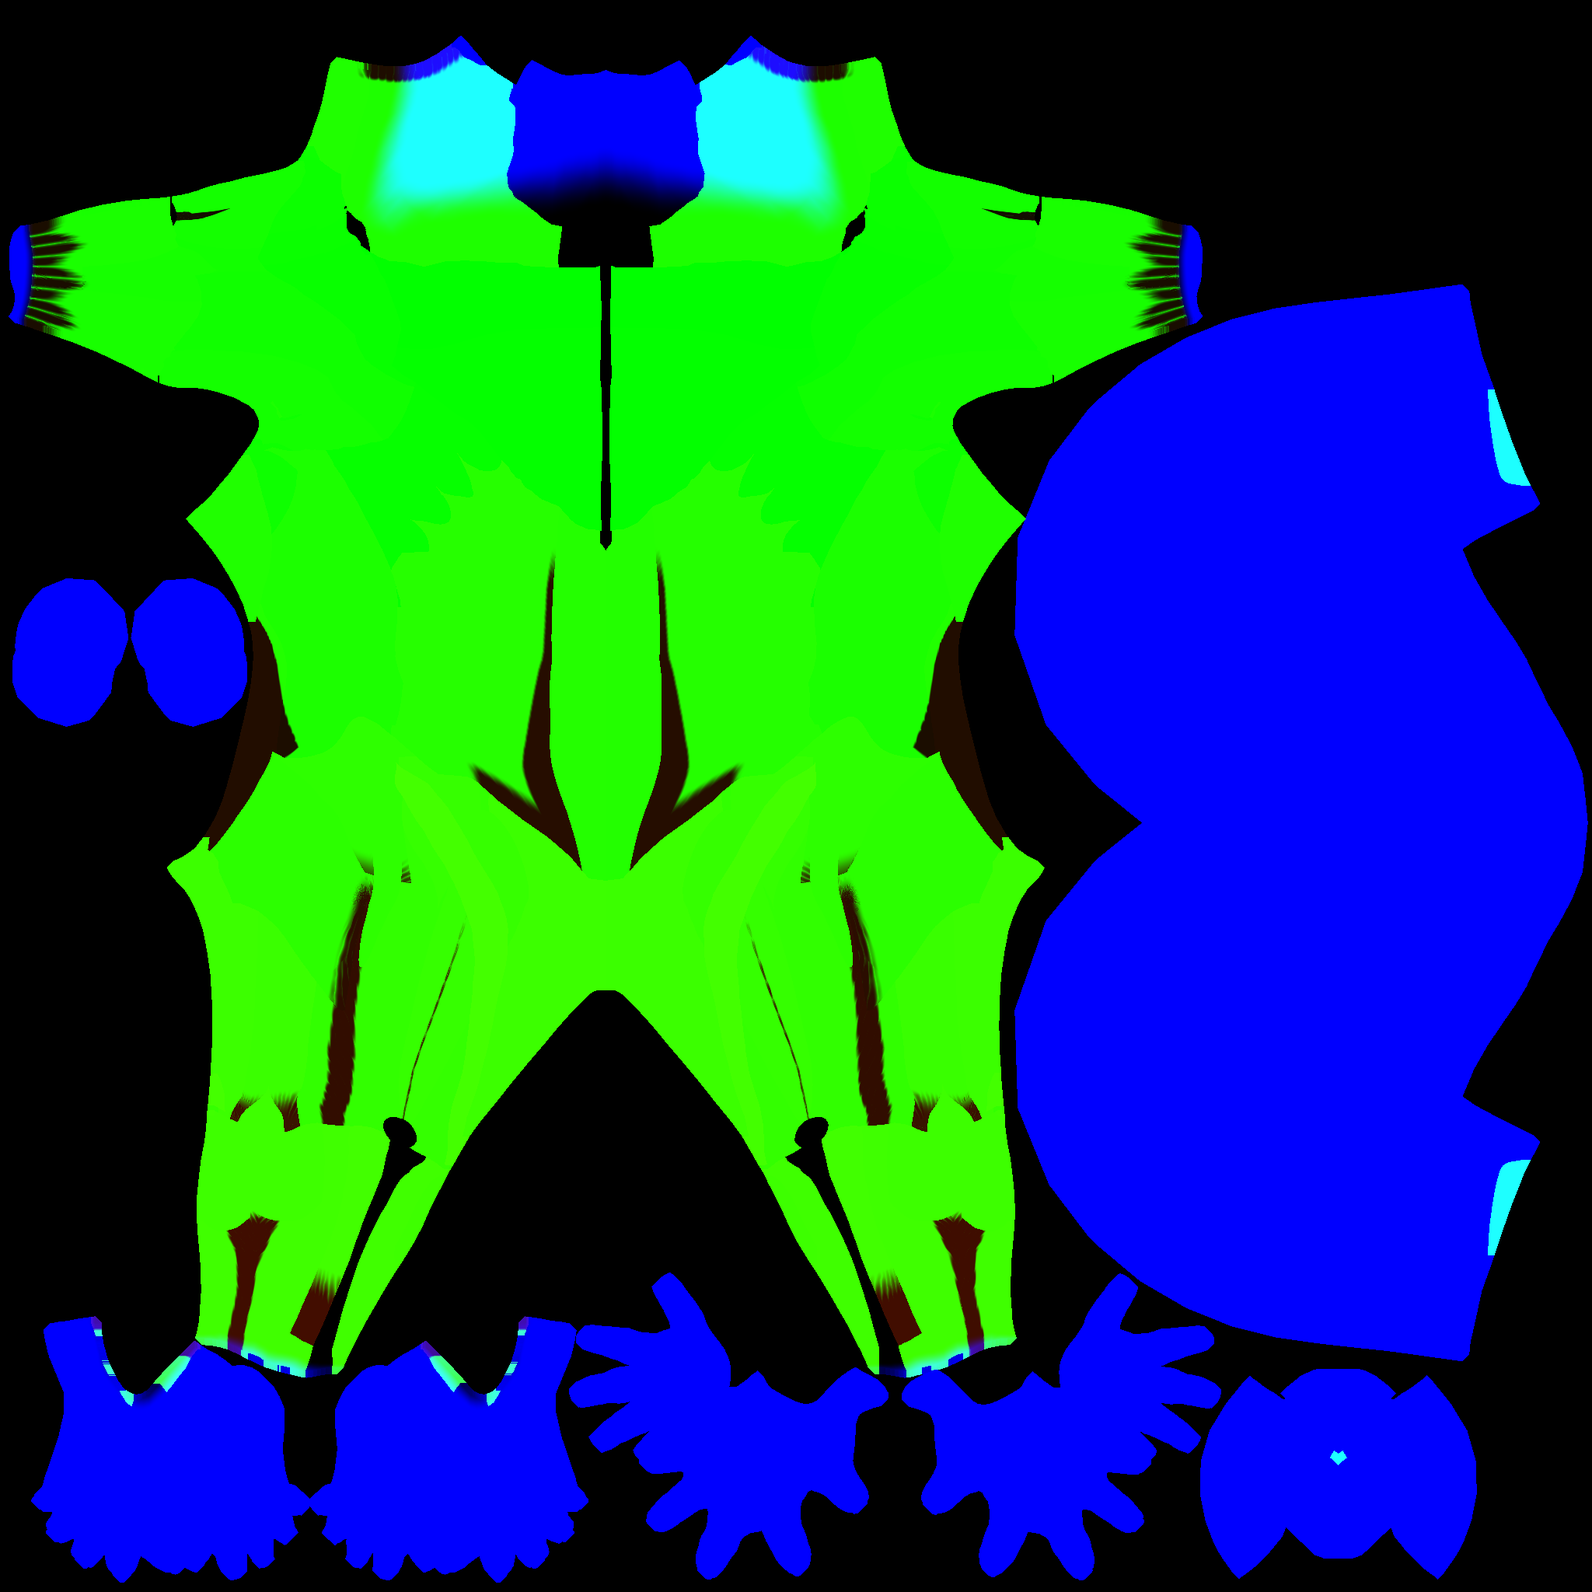
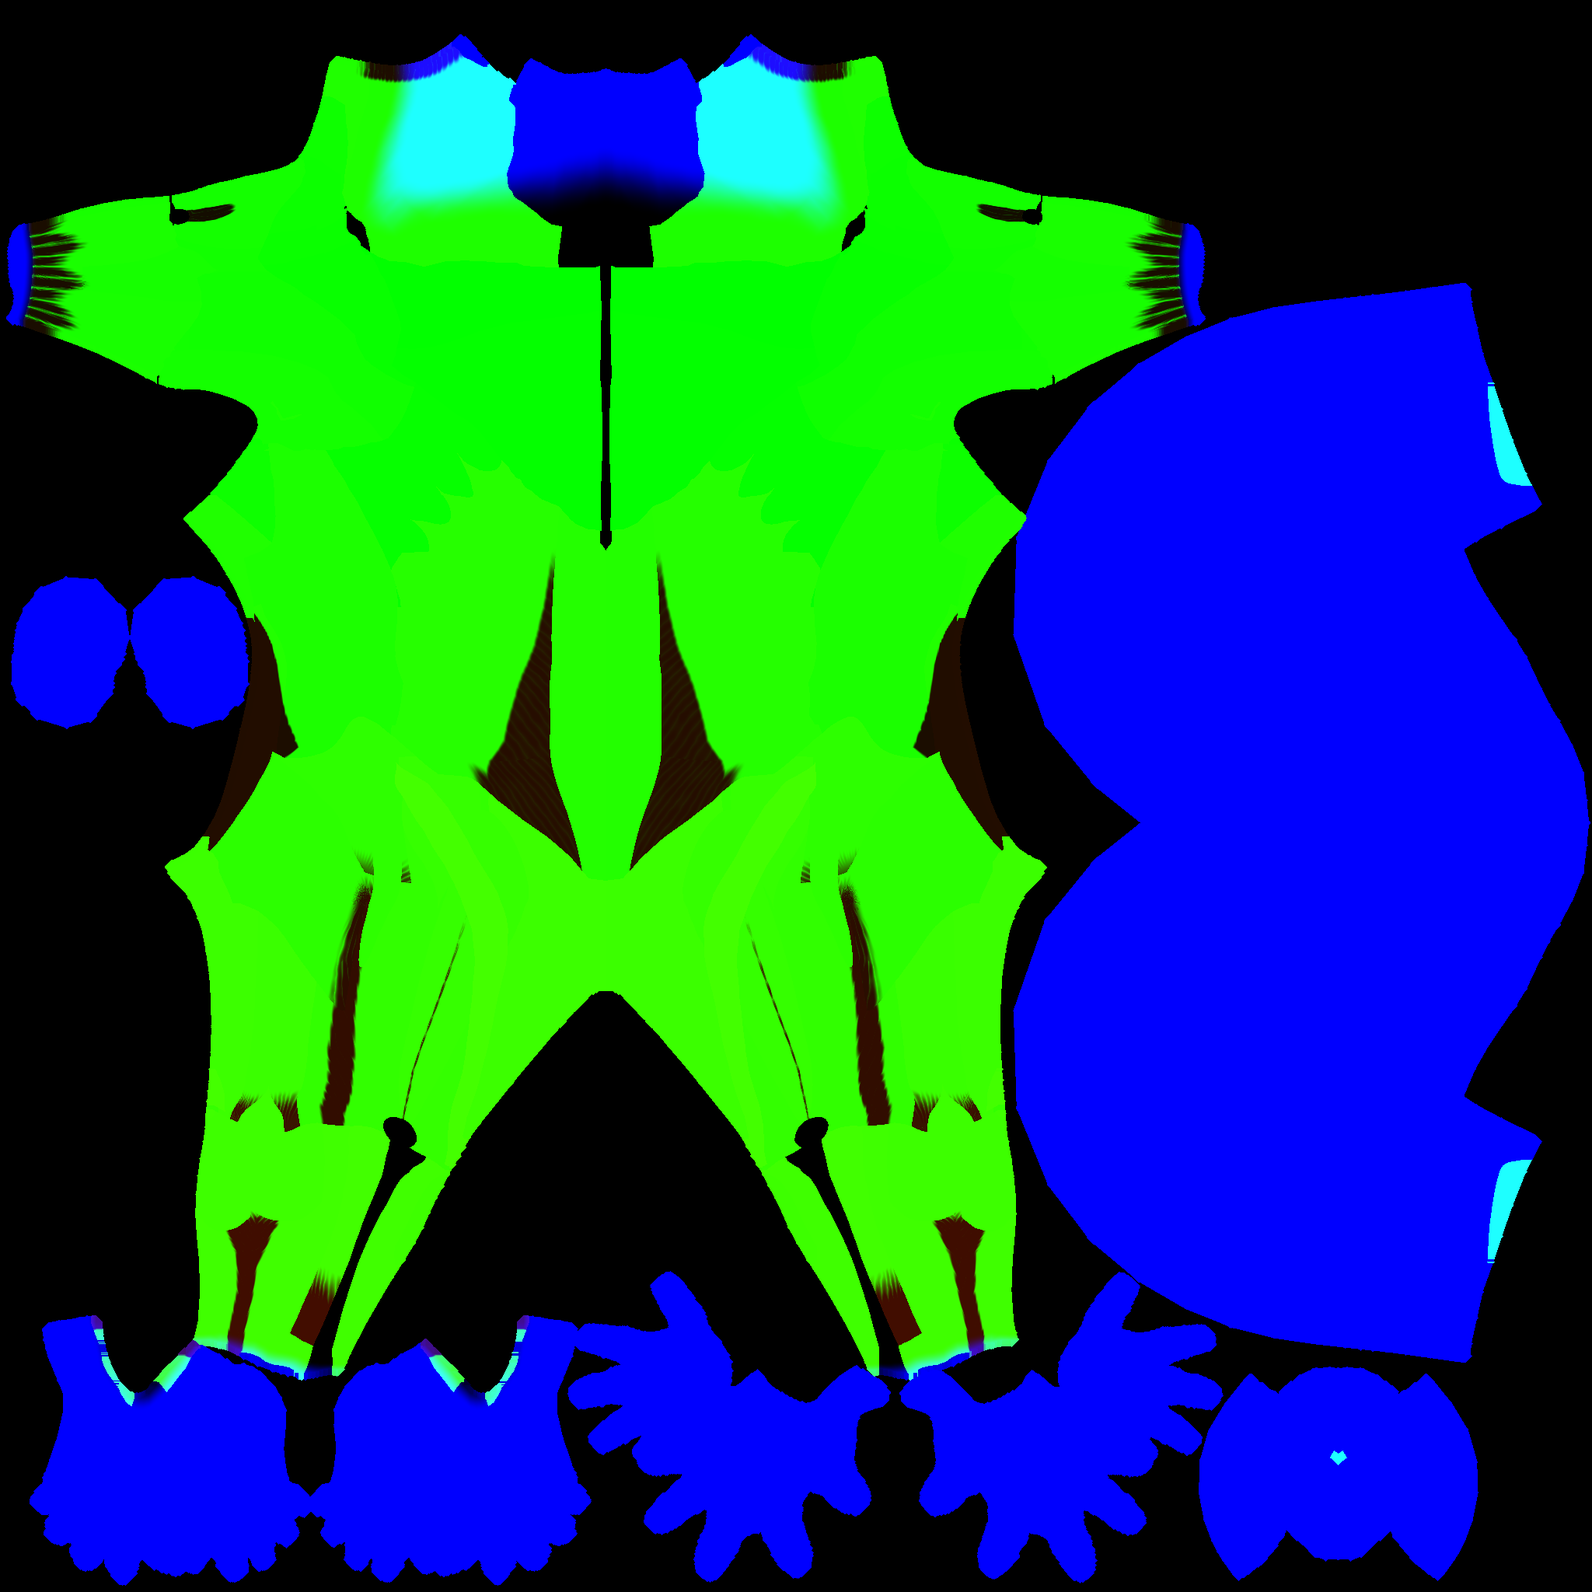
Anatomie Muskel für Muskel: Rücken, Brust, Arm, schräger Bauchmuskel, Version 0.9.5
- Trapez als Drachen: Unterrand vom 12. Brustwirbel zur Wurzel der Schulterblattgräte, dann an der Gräte zur Schulterhöhe
- Untergrätenmuskel und großer Rundmuskel liegen frei, Oberrand des Lat über den unteren Schulterblattwinkel zur Achsel;
  Rautenmuskel im Dreieck am Schulterblattrand; Fasern als Fächer (Trapez zur Gräte, Untergrätenmuskel zum Oberarmkopf)
- Brustmuskel: Furche zwischen Schlüsselbein- und Brustbeinanteil schräg zur Achsel
- Bizeps läuft spitz in eine schmale Endsehne aus, daneben der Oberarmmuskel
- Trizepssehne läuft in den freien Ellbogenhöcker statt an der Gelenkebene gerade abzubrechen
- Aponeurose des äußeren schrägen Bauchmuskels ab der Linie Rippenbogen–Darmbeinstachel
- UV-Nähte: Saum um jede Insel mit fortgesetzter Lage gebacken, Strangbreite aus dem Phasengefälle im Raum

Claude-Session: https://claude.ai/code/session_01LHRCLqy4qHW6NHZ8ZRBzk7

diff --git a/tools/anatomie-kern.ts b/tools/anatomie-kern.ts
@@ -83,6 +83,33 @@ export function backe(g: 'm' | 'w', N = 2048): Ergebnis {
       dreieck[i] = t; b0[i] = w0; b1[i] = w1;
     }
   }
+  // Saum: Texel bis 1,5 Texel außerhalb der UV-Inseln bekommen die über die Kante fortgesetzte Lage ihres nächsten
+  // Dreiecks. So liest die bilineare Filterung an einer UV-Naht auf beiden Seiten Werte von echten Nachbarpunkten
+  // statt kopierter Randtexel, und die Fasern laufen ohne Versatz über die Naht.
+  {
+    const saumAbstand = new Float32Array(NN2).fill(Infinity);
+    for (let t = 0; t < T.length / 3; t++) {
+      const a = T[3 * t], b = T[3 * t + 1], c = T[3 * t + 2];
+      const ax = UV[2 * a] * N, ay = (1 - UV[2 * a + 1]) * N, bx = UV[2 * b] * N, by = (1 - UV[2 * b + 1]) * N, cx = UV[2 * c] * N, cy = (1 - UV[2 * c + 1]) * N;
+      const flaeche = (bx - ax) * (cy - ay) - (cx - ax) * (by - ay);
+      if (Math.abs(flaeche) < 1e-9) continue;
+      // Höhe über jeder Kante in Texeln (Gewicht −1 entspricht so vielen Texeln außerhalb)
+      const hA = Math.abs(flaeche) / Math.hypot(cx - bx, cy - by), hB = Math.abs(flaeche) / Math.hypot(ax - cx, ay - cy), hC = Math.abs(flaeche) / Math.hypot(bx - ax, by - ay);
+      const x0 = Math.max(0, Math.floor(Math.min(ax, bx, cx) - 2)), x1 = Math.min(N - 1, Math.ceil(Math.max(ax, bx, cx) + 2));
+      const y0 = Math.max(0, Math.floor(Math.min(ay, by, cy) - 2)), y1 = Math.min(N - 1, Math.ceil(Math.max(ay, by, cy) + 2));
+      for (let py = y0; py <= y1; py++) for (let px = x0; px <= x1; px++) {
+        const i = py * N + px;
+        if (dreieck[i] >= 0 && saumAbstand[i] === Infinity) continue;   // im Inneren einer Insel
+        const qx = px + 0.5, qy = py + 0.5;
+        const w0 = ((bx - qx) * (cy - qy) - (cx - qx) * (by - qy)) / flaeche;
+        const w1 = ((cx - qx) * (ay - qy) - (ax - qx) * (cy - qy)) / flaeche;
+        const w2 = 1 - w0 - w1;
+        const aussen = Math.max(-w0 * hA, -w1 * hB, -w2 * hC, 0);
+        if (aussen > 1.5 || aussen >= saumAbstand[i]) continue;
+        saumAbstand[i] = aussen; dreieck[i] = t; b0[i] = w0; b1[i] = w1;
+      }
+    }
+  }
 
   // ---------- 2. Je Texel: Position, Normale, Einheit, Unterteilung, Sehne, Faser ----------
   const J = (n: string): V3 => G[n];
@@ -158,6 +185,16 @@ export function backe(g: 'm' | 'w', N = 2048): Ergebnis {
     return { phi, X, Y, sl, tq, q, saege: tq > grenze && sl > -0.2 * ZACKE && sl < SL + 0.2 * ZACKE };
   };
   const SEITE = new Set(['serratus', 'bauch_s', 'lat', 'brust_u', 'brust_o']);
+  // Schulterblatt (Rumpfhöhe 58 cm, Schultergelenk 19 cm neben der Mitte): unterer Winkel bei u 0,4 / v 0,585 (7. Brust-
+  // wirbel), Gräte von der Wurzel am Innenrand (u 0,36 / v 0,8) nach außen zur Schulterhöhe ansteigend, Innenrand
+  // fast senkrecht. Oberrand des Lat = Unterrand des großen Rundmuskels: über den unteren Winkel, dann schräg zur Achsel.
+  const rotLage = (u: number) => Math.min(1, Math.max(0, (u - 0.4) / 0.6));
+  const latOben = (u: number) => 0.585 + 0.135 * rotLage(u);
+  const graete = (u: number) => 0.8 + 0.07 * Math.min(1, Math.max(0, (u - 0.36) / 0.6));
+  const innenRand = (v: number) => 0.33 + 0.07 * Math.min(1, Math.max(0, (0.75 - v) / 0.165));
+  // Unterrand des Trapez: vom 12. Brustwirbel gerade zur Wurzel der Gräte, dann an der Gräte entlang zur Schulterhöhe
+  const trapUnten = (u: number) => u < 0.36 ? 0.42 + 0.38 * u / 0.36 : graete(u);
+  const imRundmuskel = (u: number, v: number) => u > 0.42 && v < latOben(u) + 0.055;
   // −1 = nicht zuständig (vorn am Sixpack, hinten am Rücken, Achsel und Becken)
   function seitenEinheit(p: V3, v: number, s: 'L' | 'R'): number {
     if (v < 0.18 || v > 0.75) return -1;
@@ -214,7 +251,7 @@ export function backe(g: 'm' | 'w', N = 2048): Ergebnis {
     // Brust vorn: Brustbein frei, Unterrand vom Schwertfortsatz bogenförmig zur Achsel
     if (nz > -0.05 && BRUSTRAUM.has(id) && u < 1.02 && v > 0.45 && v < 0.93 && !(id === 'delt_v' && u > 0.9)) {
       const unten = 0.53 + 0.22 * Math.pow(Math.min(1, u), 1.6), oben = 0.865 + 0.03 * u;
-      if (u > 0.022 && v > unten && v < oben) return ix(v > 0.785 - 0.05 * u ? 'brust_o' : 'brust_u', s);
+      if (u > 0.022 && v > unten && v < oben) return ix(v > 0.815 - 0.085 * u ? 'brust_o' : 'brust_u', s);   // Furche vom Brustbein schräg zur Achsel
       if (id === 'brust_o' || id === 'brust_u') {
         if (v >= oben) return u > 0.18 ? ix('trapez_o', s) : 0;
         if (u <= 0.022) return 0;
@@ -234,15 +271,22 @@ export function backe(g: 'm' | 'w', N = 2048): Ergebnis {
       const se = seitenEinheit(p, v, s);
       if (se >= 0) return se;
     }
-    // Rücken: Trapez als Raute bis zum 12. Brustwirbel, darunter Lat, auf dem Schulterblatt die Rotatoren
+    // Rücken: Trapez als Drachen bis zum 12. Brustwirbel, darunter Lat, auf dem Schulterblatt die Rotatoren
     if (nz < -0.1 && RUECKEN.has(id) && !(id === 'delt_h' && u > 0.85) && u < 1.1 && v > 0.04 && v < 1.06) {
-      const trapBreite = v < 0.42 ? -1 : v < 0.82 ? (v - 0.42) / 0.4 * 0.95 : 0.95 - Math.max(0, v - 0.88) / 0.18 * 0.78;
-      if (u <= trapBreite + 0.01) return ix(v > 0.86 ? 'trapez_o' : 'trapez_m', s);
-      if (u > 0.42 && u < 0.98 && v > 0.6 && v < 0.82) return ix('rotatoren', s);
+      const trapAussen = v < 0.88 ? 0.95 : 0.95 - (v - 0.88) / 0.18 * 0.78;
+      if (v >= trapUnten(u) && u <= trapAussen + 0.01) return ix(v > 0.86 ? 'trapez_o' : 'trapez_m', s);
       if (u < 0.27 - 0.15 * glatt(0.3, 0.44, v) && v < 0.46) return ix('strecker', s);   // Rückenstrecker, oben spitz unter dem Trapez
-      const latOben = 0.6 + 0.14 * Math.min(1, u);
-      if (v < latOben) return ix('lat', s);
-      if (id === 'lat' || id === 'trapez_m' || id === 'rotatoren') return u < 0.3 ? ix('strecker', s) : ix('lat', s);
+      if (v < latOben(u)) return ix('lat', s);
+      // zwischen Trapez, Lat und Deltamuskel frei: Untergrätenmuskel und Rundmuskeln, innen am Schulterblattrand im
+      // Dreieck unter dem Trapez der große Rautenmuskel
+      if (v < graete(u) + 0.01) return ix(u > innenRand(v) ? 'rotatoren' : 'trapez_m', s);
+      if (id === 'lat' || id === 'rotatoren') return u < 0.3 ? ix('strecker', s) : ix('lat', s);
+    }
+    // Ellbogenhöcker (Olecranon) frei unter der Haut: die Trizepssehne läuft in ihn ein, statt an der Gelenkebene
+    // gerade abzubrechen
+    if (OBERARM.has(id) || UNTERARM.has(id)) {
+      const { t, w, radius } = imGlied(oberarm, p);
+      if (radius < 0.08 && (((t - 1.0) * oberarm.laenge) / 0.019) ** 2 + ((Math.PI - Math.abs(w)) * radius / 0.014) ** 2 < 1) return 0;
     }
     // Oberarm: Deltamuskel läuft als V zum Ansatz außen am Oberarm aus; darunter Bizeps vorn, Oberarmmuskel außen
     // unten, Trizeps hinten
@@ -253,11 +297,13 @@ export function backe(g: 'm' | 'w', N = 2048): Ergebnis {
       if (t > 0.08 && t < 1.0 && !jenseits && (id !== '' || radius < 0.08)) {   // auch Ringe ohne Maskenabdeckung
         const dw = Math.abs(Math.atan2(Math.sin(w - 1.4), Math.cos(w - 1.4)));
         if (t < 0.47 - 0.36 * Math.min(1, dw / 2.2) ** 1.2) return ix(w > -1.6 && w < 1.15 ? 'delt_v' : w >= 1.15 && w < 2.1 ? 'delt_s' : 'delt_h', s);
-        if (Math.abs(w) < 0.95 * Math.sin(Math.PI * Math.min(1, Math.max(0, (t - 0.12) / 0.86))) ** 0.4) return ix('bizeps', s);
+        // Bizeps läuft unten spitz aus (schmale Endsehne), daneben liegt der Oberarmmuskel frei
+        const spitz = glatt(0.78, 0.93, t);
+        if (Math.abs(w) < 0.95 * Math.sin(Math.PI * Math.min(1, Math.max(0, (t - 0.12) / 0.86))) ** 0.4 * (1 - 0.65 * spitz)) return ix('bizeps', s);
         if (t > 0.7 && Math.abs(w - 0.95) < 0.5 * glatt(0.7, 0.88, t)) return ix('brachiorad', s);   // Ursprung am Oberarm
         if (w > 0 && w < 1.75 && t > 0.42) return ix('brachialis', s);
         if (Math.abs(w) >= 1.2) return ix('trizeps', s);
-        return ix(w > 0 ? 'brachialis' : 'bizeps', s);
+        return ix(w > 0 || spitz > 0.3 ? 'brachialis' : 'bizeps', s);
       }
     }
     // Unterarm: Oberarmspeichenmuskel daumenseitig vorn, Beuger innen, Strecker außen/hinten
@@ -316,14 +362,18 @@ export function backe(g: 'm' | 'w', N = 2048): Ergebnis {
       for (const h of [0.2, 0.32, 0.43]) if (v + welle / hoeheRumpf > h) k++;
     } else if (id === 'serratus') {
       k = 1 + ((Math.floor(seitenLage(p, v).q) % 8) + 8) % 8;   // ein Finger je Rippe
+    } else if (id === 'rotatoren') {
+      k = imRundmuskel(u, v) ? 1 : 0;                         // großer Rundmuskel als Strang an der Unterkante
     } else if (id === 'bizeps') {
       const { t: tt, w } = imGlied(oberarm, p);
       k = w > 0.05 + 0.7 * glatt(0.55, 0.85, tt) ? 1 : 2;     // kurzer und langer Kopf; die Trennung läuft unten seitlich aus
+      s = 0.8 * glatt(0.82, 0.9, tt) * (1 - glatt(0.12, 0.22, Math.abs(w - 0.05)));   // schmale Endsehne zur Ellenbeuge
     } else if (id === 'trizeps') {
       const { t: tt, w } = imGlied(oberarm, p), hinten = Math.PI - Math.abs(w);
       k = w > 0 && w < 2.45 ? 1 : 2;                          // seitlicher und langer Kopf
-      const halb = 0.24 * (tt - 0.66) / 0.32;
-      s = 0.78 * (1 - glatt(halb - 0.03, halb + 0.03, hinten)) * glatt(0.62, 0.68, tt);   // Trizepssehne, nach unten breiter
+      // Sehnenplatte im unteren Oberarm: oben spitz, dann breit bis in den Ellbogenhöcker (Hufeisen der Köpfe drumherum)
+      const halb = 0.1 + 0.2 * Math.max(0, Math.sin(Math.PI * Math.min(1, Math.max(0, (tt - 0.6) / 0.6)))) ** 0.8;
+      s = 0.78 * (1 - glatt(halb - 0.03, halb + 0.03, hinten)) * glatt(0.6, 0.68, tt);
     } else if (id === 'gastro') {
       const { t: tt, w } = imGlied(unterschenkel, p);
       k = w > 0 ? 1 : 2;                                        // äußerer und innerer Kopf
@@ -349,10 +399,12 @@ export function backe(g: 'm' | 'w', N = 2048): Ergebnis {
       s = id === 'strecker' && v < 0.14 ? 0.88 : 0.88 * (1 - glatt(breite - 0.015, breite + 0.015, u)) * glatt(0.05, 0.3, -nz);
     } else if (id === 'bauch_s' && nz > -0.2) {
       // Aponeurose des äußeren schrägen Bauchmuskels: schmal neben dem Sixpack, nach unten breiter, Saum am Leistenband
-      const rand = uRect(v) + 0.03 + 0.1 * glatt(0.38, 0.05, v);
+      // Muskel-Sehnen-Grenze: am Rippenbogen dicht am Sixpack, auf Nabelhöhe in der Medioklavikularlinie, unten zum
+      // vorderen Darmbeinstachel
+      const rand = uRect(v) + 0.03 + 0.2 * glatt(0.45, 0.08, v) + 0.1 * glatt(0.16, 0.04, v);   // unten zum Darmbeinstachel
       const neben = 1 - glatt(rand - 0.015, rand + 0.015, u);
       const leiste = (1 - glatt(0.02, 0.06, v - vLeiste(u))) * (1 - glatt(0.58, 0.66, u));
-      s = 0.85 * Math.max(neben, leiste) * (1 - glatt(0.42, 0.52, v));
+      s = 0.75 * Math.max(neben, leiste) * (1 - glatt(0.42, 0.52, v));
     } else if (id === 'glut_max') {
       const { beta } = beckenLage(p);
       s = 0.8 * (1 - glatt(1.7, 2.1, beta)) * (1 - glatt(-0.2, -0.1, v));   // außen unten in den Tractus iliotibialis
@@ -361,11 +413,22 @@ export function backe(g: 'm' | 'w', N = 2048): Ergebnis {
       if (imTFL(w, v)) k = 1;                                    // Spanner der Oberschenkelbinde als eigener Bauch
       else s = 0.6 * (1 - glatt(-0.13, -0.05, v));              // Ansatzsehne am großen Rollhügel
     } else if (id === 'trapez_o' || id === 'trapez_m') {
+      if (id === 'trapez_m' && nz < 0 && v < trapUnten(u)) k = 1;   // Rautenmuskel unter dem Trapezrand
       s = 0.8 * (1 - glatt(0.05, 0.12, u)) * glatt(0.8, 0.88, v) * glatt(0.1, 0.4, -nz);   // Sehnenspiegel am Nacken
     }
     teil[i] = e * 16 + k;
     sehne[i] = e === 0 ? 1 : s;
     if (e) phase[i] = faser(id, p);
+    if (id === 'rotatoren') {
+      // Untergrätenmuskel: Fächer zum Oberarmkopf; großer Rundmuskel: Strang parallel zum Lat-Rand
+      if (k === 1) { const steil = 0.135 * hoeheRumpf / (0.6 * W), l = Math.hypot(1, steil); phase[i] = (-steil * p[0] + p[1]) / l * 190; }
+      else phase[i] = Math.atan2(p[1] - (yB + 0.8 * hoeheRumpf), 1.05 * W - p[0]) * 0.09 * 190;
+    } else if (id === 'trapez_m' && nz < 0) {
+      // Trapez Mitte und aufsteigender Teil: Fächer zur Gräte (unten schräg aufsteigend, oben quer);
+      // Rautenmuskel: von der Wirbelsäule schräg nach außen unten zum Schulterblattrand
+      if (k === 1) phase[i] = (0.6 * p[0] + p[1]) / Math.hypot(1, 0.6) * 190;
+      else phase[i] = Math.atan2(p[1] - (yB + 0.83 * hoeheRumpf), 0.6 * W - p[0]) * 0.12 * 190;
+    }
     if (id === 'serratus' || (id === 'bauch_s' && v > 0.12)) {
       const L = seitenLage(p, v);
       phase[i] = id === 'serratus' ? L.sl * 190 : (L.X * 0.77 - L.Y * 0.64) * 190;
@@ -555,6 +618,18 @@ export function backe(g: 'm' | 'w', N = 2048): Ergebnis {
   const SEHNE: V3 = [234, 227, 224], KNOCHEN: V3 = [212, 196, 176], FASZIE: V3 = [238, 218, 210];
   const lin = (c: number) => { const x = c / 255; return x <= 0.04045 ? x / 12.92 : ((x + 0.055) / 1.055) ** 2.4; };
   let lumSumme = 0, lumAnzahl = 0;
+  // mittlere Texelgröße der Muskelflächen im Raum (Median der Nachbarabstände)
+  const TEXEL = (() => {
+    const ds: number[] = [];
+    for (let i = 0; i + 1 < NN2; i += 7) {
+      if (dreieck[i] < 0 || dreieck[i + 1] < 0 || !einheit[i]) continue;
+      const d = Math.hypot(pos[3 * i + 3] - pos[3 * i], pos[3 * i + 4] - pos[3 * i + 1], pos[3 * i + 5] - pos[3 * i + 2]);
+      if (d < 0.006) ds.push(d);
+    }
+    ds.sort((a, b) => a - b);
+    return ds[Math.floor(ds.length / 2)];
+  })();
+  console.log(`${g}: Texel im Mittel ${(TEXEL * 1000).toFixed(2)} mm`);
   for (let py = 0; py < N; py++) for (let px = 0; px < N; px++) {
     const i = py * N + px;
     if (dreieck[i] < 0) continue;
@@ -569,11 +644,17 @@ export function backe(g: 'm' | 'w', N = 2048): Ergebnis {
     let bund = 0.5, naht = 0, strahl = 0, zufall = 0;
     if (e) {
       const ph = phase[i];
-      // Phasenänderung je Texel in beiden Richtungen: wo die Textur für feine Stränge zu grob ist, doppelt so breite
-      // Stränge (zweite Stufe) statt Ausblenden
-      const dx = px + 1 < N && dreieck[i + 1] >= 0 && einheit[i + 1] === e ? Math.abs(phase[i + 1] - ph) : 0;
-      const dy = py + 1 < N && dreieck[i + N] >= 0 && einheit[i + N] === e ? Math.abs(phase[i + N] - ph) : 0;
-      const nb = Math.max(dx < 0.5 ? dx : 0, dy < 0.5 ? dy : 0);
+      // Phasengefälle je Meter (3D), umgerechnet auf ein mittleres Texel: wo die Textur für feine Stränge zu grob ist,
+      // doppelt so breite Stränge (zweite Stufe) statt Ausblenden. Im Raum gemessen, damit beide Seiten einer UV-Naht
+      // (andere Lage und Dichte der Insel) dieselbe Strangbreite wählen.
+      const gefaelle = (j: number) => {
+        if (j < 0 || dreieck[j] < 0 || einheit[j] !== e) return -1;
+        const dp = Math.abs(phase[j] - ph), d3 = Math.hypot(pos[3 * j] - x, pos[3 * j + 1] - y, pos[3 * j + 2] - z);
+        return dp < 0.5 && d3 > 1e-5 && d3 < 0.006 ? dp / d3 : -1;
+      };
+      const gRichtung = (a: number, b: number) => { const ga = gefaelle(a); return ga >= 0 ? ga : Math.max(0, gefaelle(b)); };
+      const gx = gRichtung(px + 1 < N ? i + 1 : -1, px > 0 ? i - 1 : -1), gy = gRichtung(py + 1 < N ? i + N : -1, py > 0 ? i - N : -1);
+      const nb = 0.9 * TEXEL * Math.hypot(gx, gy);
       const grob = glatt(0.13, 0.2, 1.32 * nb), aa = 1 - glatt(0.15, 0.24, 0.66 * nb);
       const verzug = 0.55 * (rauschen(x * 30, y * 30, z * 30) - 0.5) + 0.18 * (rauschen(x * 140, y * 140, z * 140) - 0.5);
       const strang = (f: number) => {

diff --git a/index.html b/index.html
@@ -17,7 +17,7 @@
 <link rel="preconnect" href="https://fonts.gstatic.com" crossorigin>
 <link rel="stylesheet" href="https://fonts.googleapis.com/css2?family=Barlow:wght@400;500;600;700&family=Saira:wdth,wght@112,600;112,700;112,800&display=swap">
 <script>
-const APP_VERSION = '0.9.4';          // bei JEDER Änderung hochzählen
+const APP_VERSION = '0.9.5';          // bei JEDER Änderung hochzählen
 window.APP_VERSION = APP_VERSION;
 </script>
 </head>

diff --git a/README.md b/README.md
@@ -116,7 +116,13 @@ npm run anatomie     # tools/anatomie-backen.mjs, etwa 30 s je Geschlecht, brauc
 `tools/anatomie-kern.ts` wertet je Texel die Masken aus und schneidet die sichtbaren Muskeln nach ihrer echten Form zu
 (Brust, Trapez, Lat, Beckenkamm, Leistenband, Gesäß, Deltamuskel, Wade …). An der seitlichen Brustwand verzahnen sich
 fünf Finger des Sägemuskels mit den Ursprungszacken des äußeren schrägen Bauchmuskels entlang einer schrägen Linie vom
-Unterrand des Brustmuskels zum Latissimus; die Fasern beider folgen ihrer echten Richtung. Die Karte trägt je Texel die Einheit;
+Unterrand des Brustmuskels zum Latissimus; die Fasern beider folgen ihrer echten Richtung. Am Rücken läuft der Trapez als
+Drachen vom 12. Brustwirbel zur Wurzel der Schulterblattgräte und an ihr entlang zur Schulterhöhe; darunter liegen
+Untergrätenmuskel und großer Rundmuskel frei (Oberrand des Lat über den unteren Schulterblattwinkel zur Achsel), im Dreieck
+am Schulterblattrand der Rautenmuskel. Die Trizepssehne läuft in den freien Ellbogenhöcker, der Bizeps spitz in eine schmale
+Endsehne, die Aponeurose des äußeren schrägen Bauchmuskels beginnt an der Linie vom Rippenbogen zum Darmbeinstachel.
+Ein Saum von 1,5 Texeln um jede UV-Insel wird mit der über die Kante fortgesetzten Lage gebacken, und die Strangbreite
+richtet sich nach dem Phasengefälle im Raum: so laufen Fasern und Furchen ohne Linie über UV-Nähte. Die Karte trägt je Texel die Einheit;
 zur Laufzeit färbt die App darüber Entwicklung und Auswahl, und ein Tipp trifft den Muskel texelgenau.
 Muskelgrenzen sind Furchen im Relief statt gezeichneter Linien; helle Faszie gibt es nur an Linea alba, Mittellinien und den
 Sehnenzügen des Sixpacks. Fasern sind gezeichnete Stränge mit eigener Helligkeit (in der Farbe, nicht im Relief, damit sie
